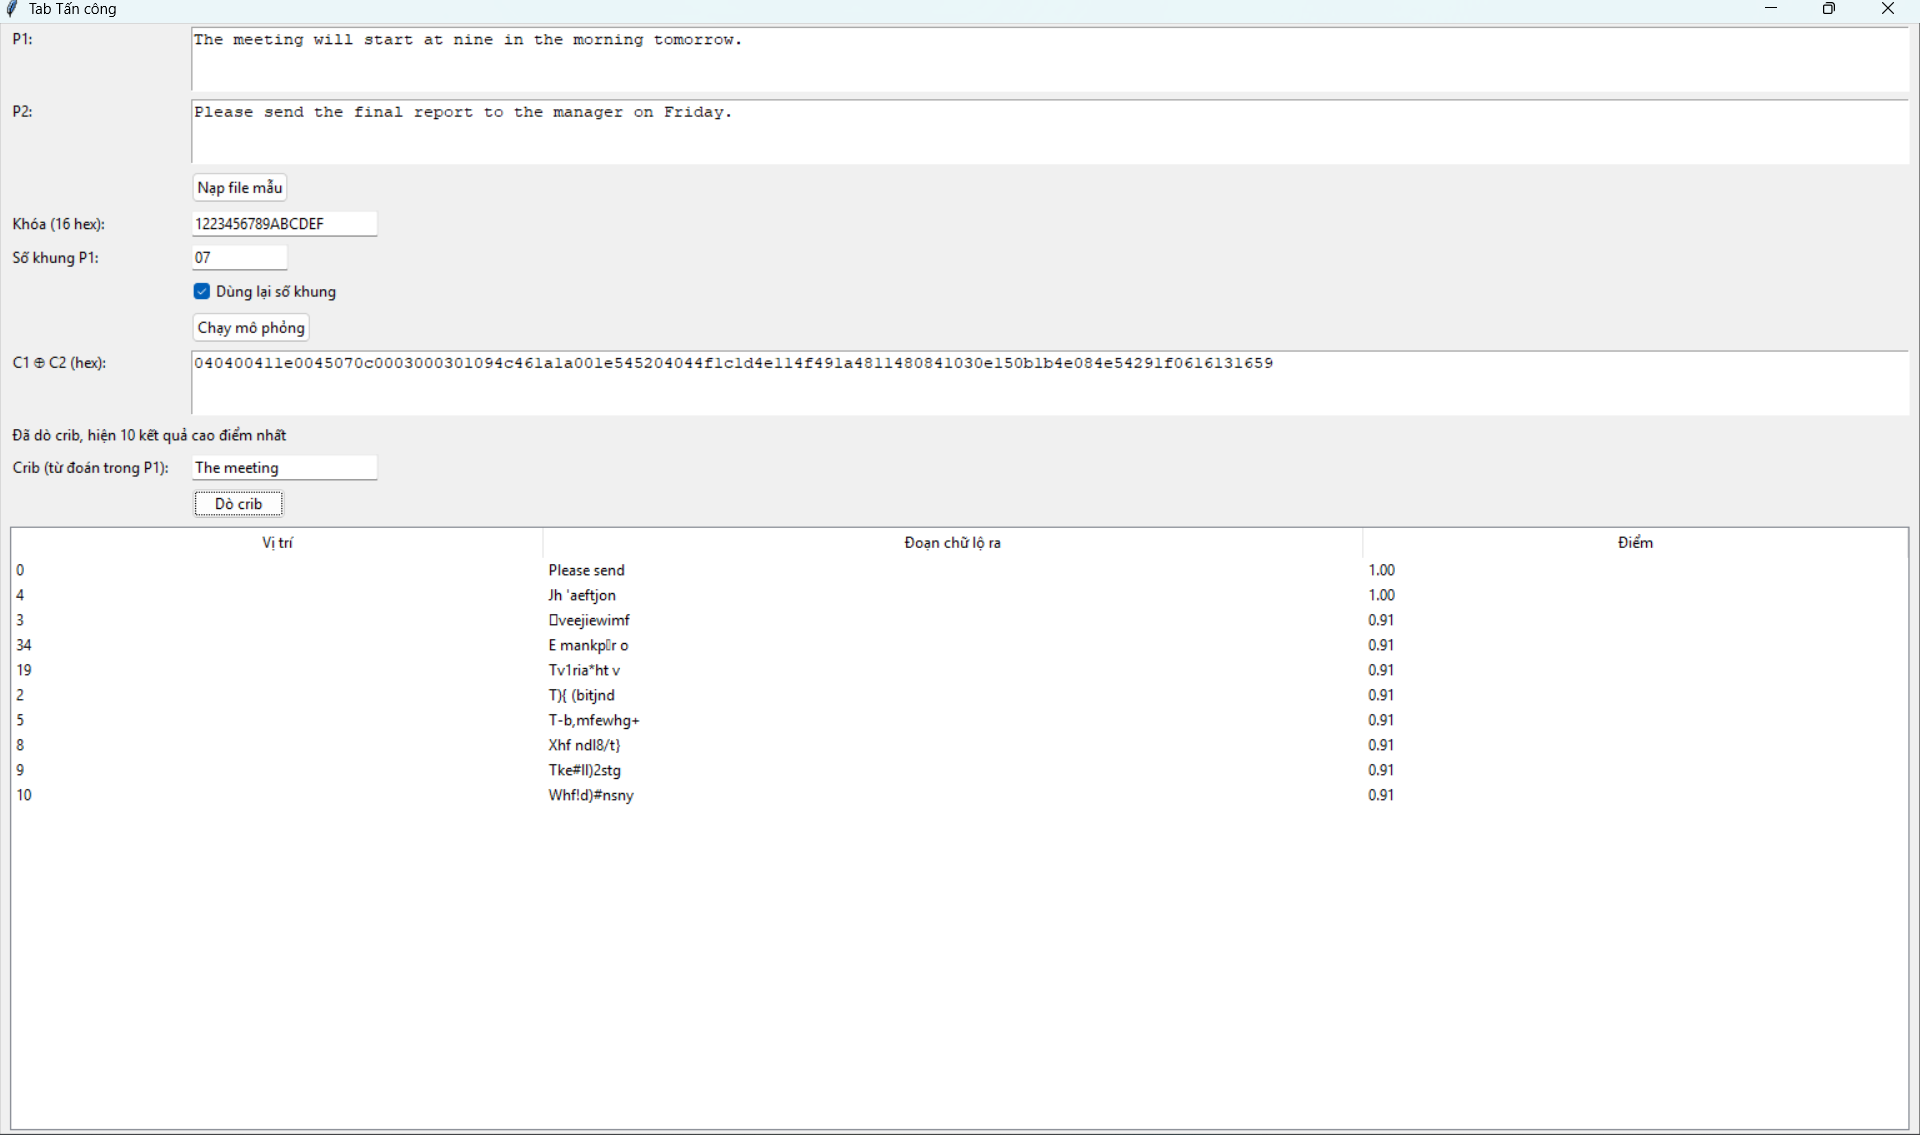
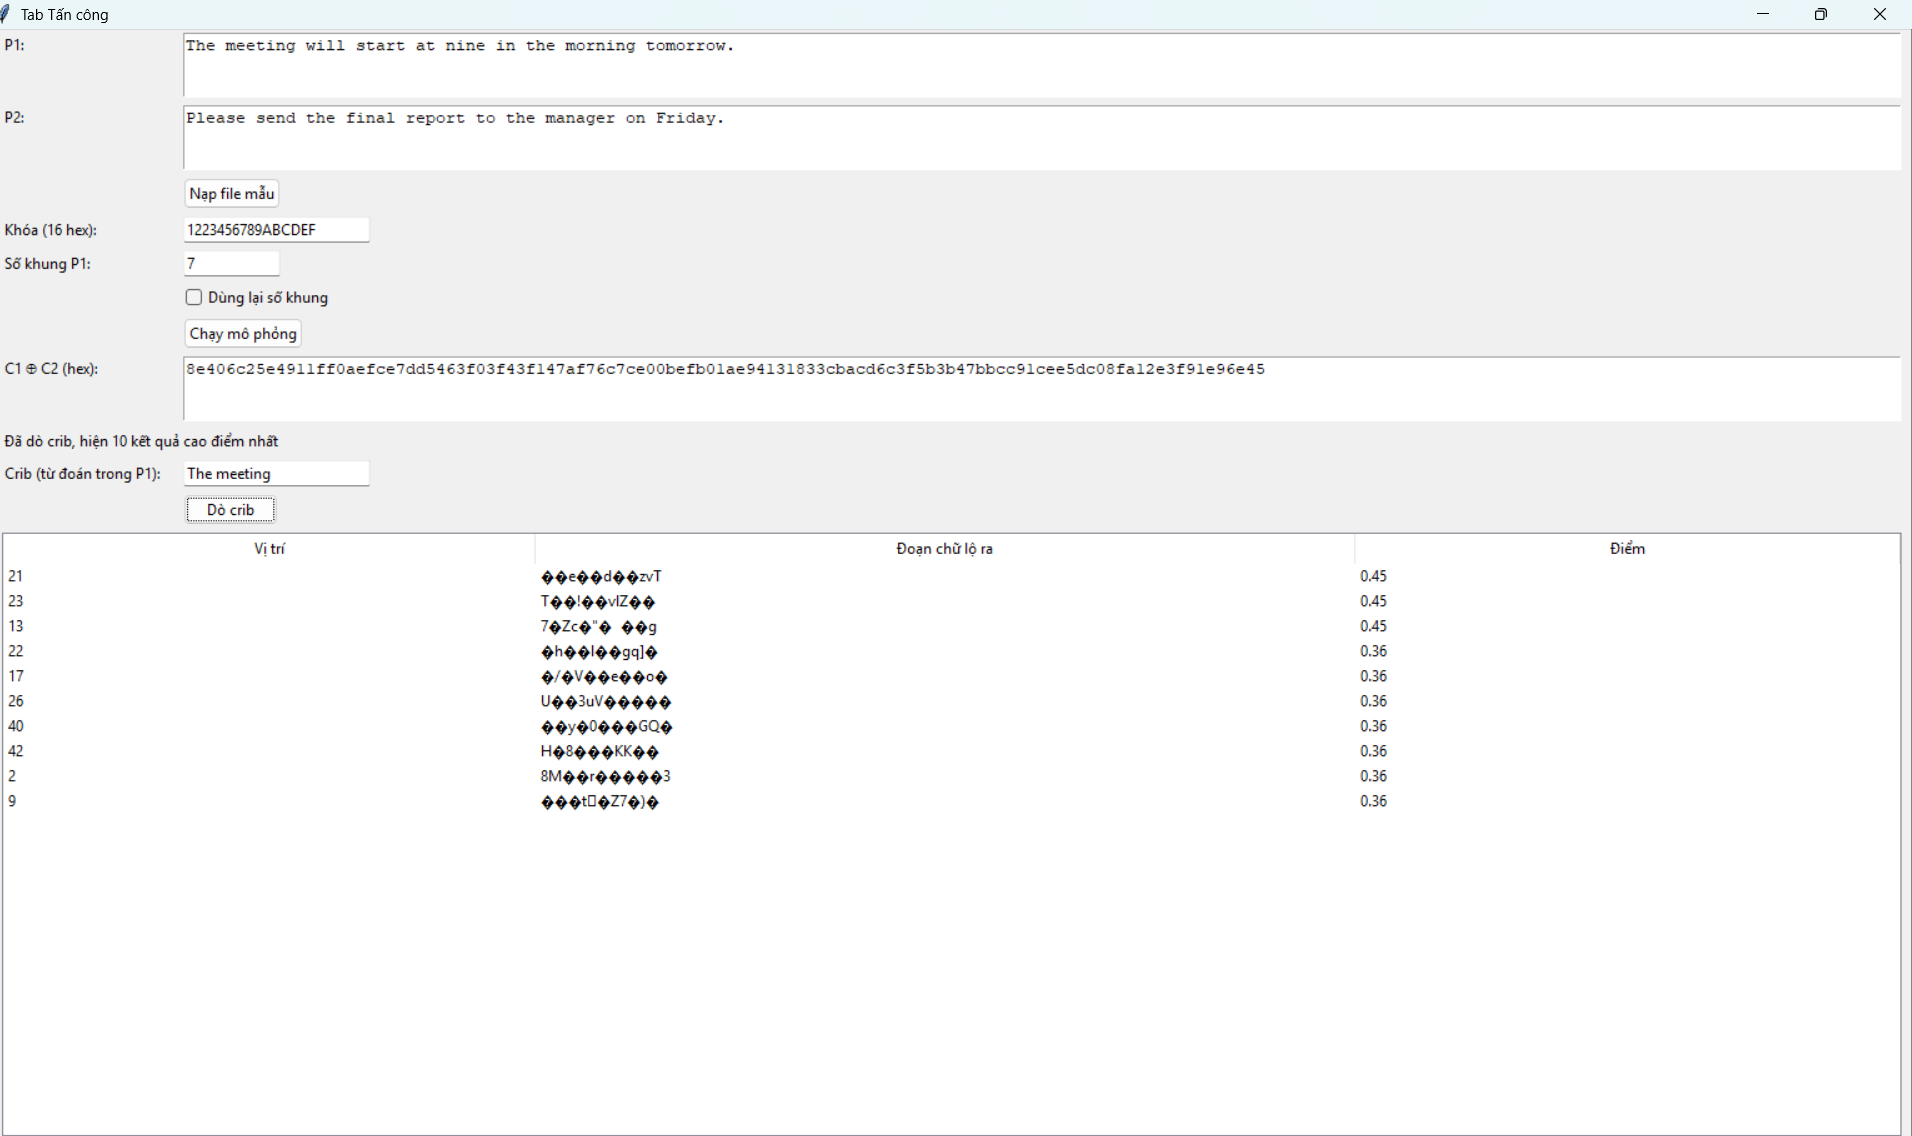
fix(evidence): replace attack tab screenshots and complete section 4.2

diff --git a/docs/report_section_4_2.md b/docs/report_section_4_2.md
@@ -12,7 +12,7 @@ Phần này chạy chương trình trên dữ liệu thật: mã hóa và giải
 
 **Hình 4.2.3 (ảnh 3: `Loc_selfcheck_D1.png`).** Chọn `loc_test.txt.enc`, bấm "Giải mã". Chương trình báo "Đã giải mã xong" với file `loc_test.txt.enc.dec` (không cần nhập lại số khung vì đã nằm trong 4 byte đầu của file). Ô "Xem trước" hiện lại `Hello A5/1, day la thu nghiem cua Loc`, giống file gốc.
 
-*Kiểm tra file giải mã so với file gốc:* [điền kết quả lệnh `Get-FileHash` trong hướng dẫn: hai mã băm giống nhau hay khác nhau].
[1 lines of base64/hex data omitted]
 
 ## 4.2.2. Mã hóa và giải mã ảnh PNG
 
@@ -24,7 +24,7 @@ Mở tab "Tấn công", bấm "Nạp file mẫu" (P1 = `The meeting will start a
 
 **Hình 4.2.4 (ảnh 4: `Loc_selfcheck_D3_reuse.png`).** Tick "Dùng lại số khung" và bấm "Chạy mô phỏng": hai tin dùng cùng số khung 7 nên cùng một dòng khóa. Chương trình hiện C1 ⊕ C2 dạng hex (bắt đầu bằng `040400411e0045070c...`). Với crib `The meeting` (có trong P1), bảng dò crib cho dòng đầu tiên: vị trí `0`, đoạn chữ lộ ra `Please send`, điểm `1.00`. Đây chính là phần đầu của P2, kẻ tấn công đọc được mà không cần biết khóa.
 
-**Hình 4.2.5 (ảnh 5: `Loc_selfcheck_D3_diff.png`).** Bỏ tick "Dùng lại số khung" (số khung của P2 là 8), bấm "Chạy mô phỏng" lại: chương trình báo hai dòng khóa khác nhau. Dò crib `The meeting`: [điền theo ảnh 5: bảng hiện gì, có chữ đọc được không, điểm cao nhất bao nhiêu]. Vì hai dòng khóa khác nhau nên không còn triệt tiêu nhau, C1 ⊕ C2 không còn bằng P1 ⊕ P2.
+**Hình 4.2.5 (ảnh 5: `Loc_selfcheck_D3_diff.png`).** Bỏ tick "Dùng lại số khung" (số khung của P2 là 8), bấm "Chạy mô phỏng" lại: chương trình báo hai dòng khóa khác nhau. C1 ⊕ C2 lúc này bắt đầu bằng `8e406c25e4911f...`, khác hẳn trường hợp dùng lại số khung. Dò crib `The meeting`: bảng chỉ hiện các chuỗi ký tự vô nghĩa, không có chữ đọc được nào, điểm cao nhất chỉ là `0.45` (các vị trí 21, 23, 13), các dòng còn lại `0.36`. Vì hai dòng khóa khác nhau nên không còn triệt tiêu nhau, C1 ⊕ C2 không còn bằng P1 ⊕ P2.
 
 ## 4.2.4. Kết quả dò crib
 
